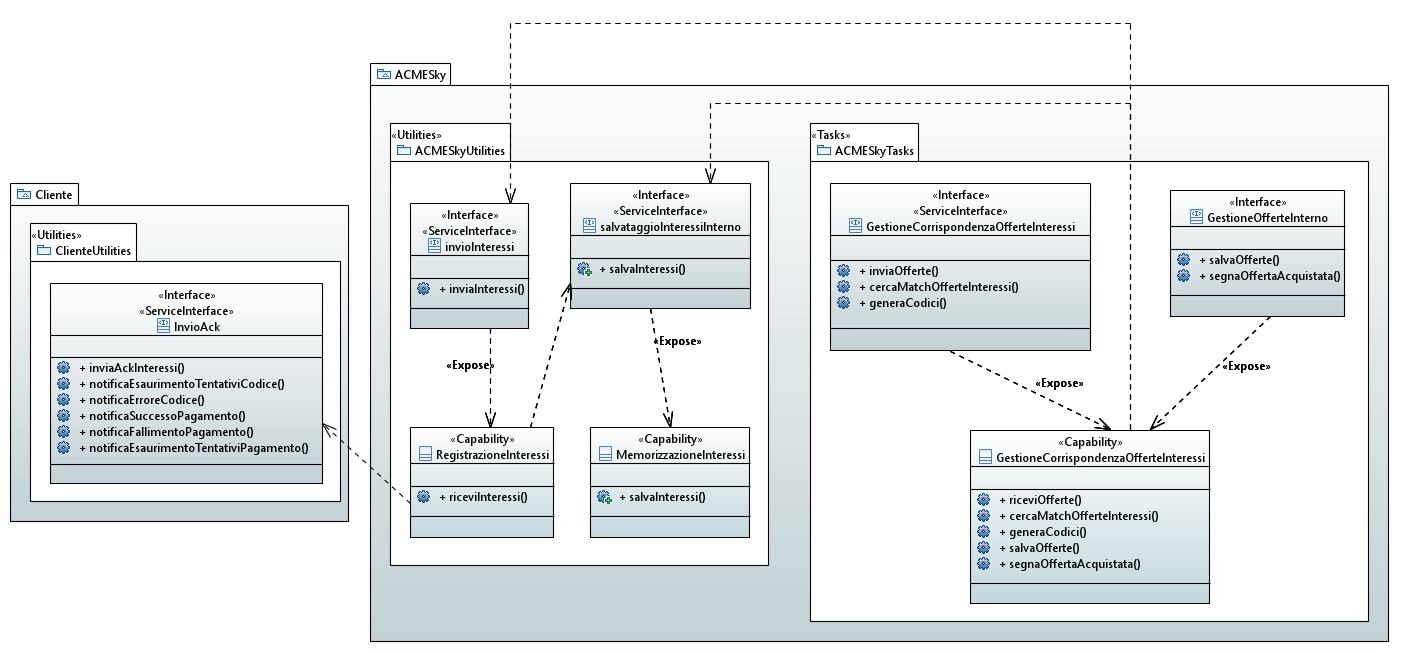
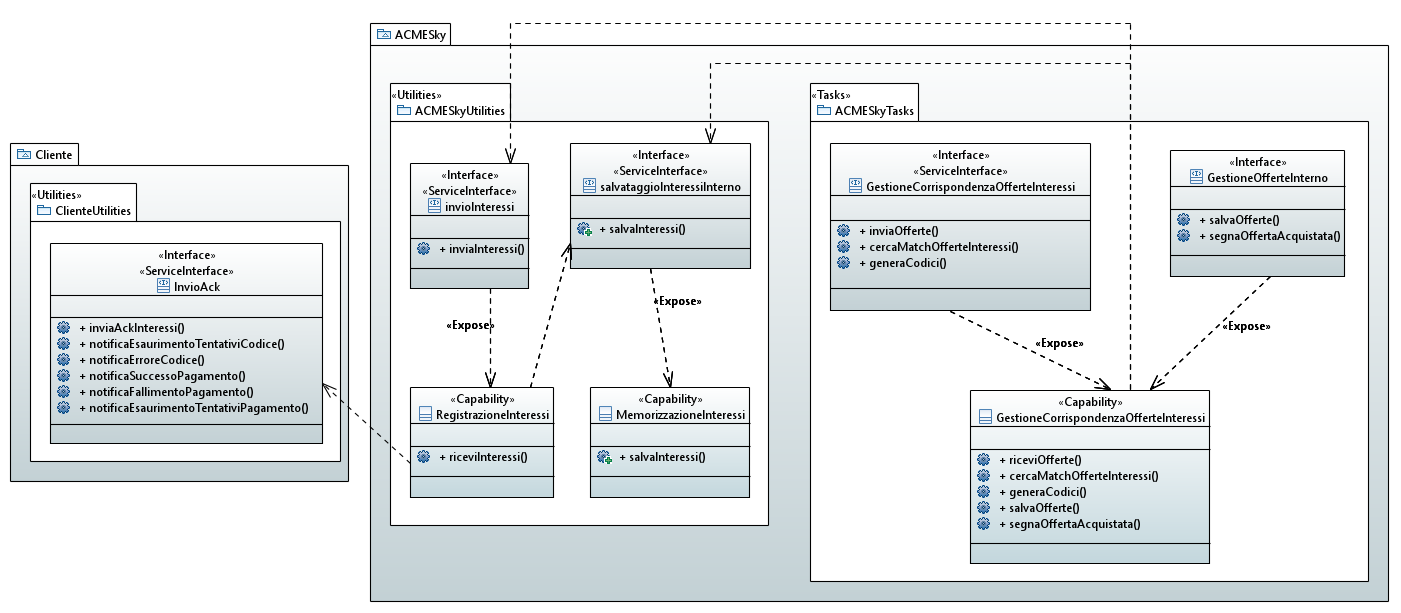
backup

diff --git a/back-up/4-UML.md b/back-up/4-UML.md
@@ -1,22 +1,33 @@
 # Modello UML della SOA progettata
 
-Abbiamo progettato una *Service Oriented Architecture* (SOA) che realizzi la piattaforma in considerazione, e l'abbiamo documentata utilizzando UML: in dettaglio, ci siamo serviti del profilo *TinySOA*, in quanto mette a disposizione gli artefatti e gli stereotipi appropriati per le nostre esigenze documentative.
+Per quanto riguarda questa sezione, abbiamo analizzato minuziosamente il diagramma BPMN presentato nella [sezione precedente](4-diagramma-BPMN.md), nel tentativo di individuare ogni interfaccia e le operazioni che ciascuna di esse rende accessibile: abbiamo indicato anche le capability cui queste interfacce permettono di fruire.
 
-Questo profilo presenta tre artefatti volti a contenere le interfacce e le capability che espongono:
+A fini documentativi, abbiamo utilizzato UML e, più precisamente, il profilo *TinySOA*, in quanto mette a disposizione gli artefatti e gli stereotipi appropriati per un'architettura orientata ai servizi.
+
+Gli artefatti in questione sono:
 - **Task**: un intero processo legato al dominio;
 - **Entity**: una singola attività che può far uso di utility;
 - **Utility**: un intero processo scollegato dal dominio
 
-Abbiamo analizzato minuziosamente il diagramma BPMN elaborato e, per ogni partecipante, abbiamo individuato le capability racchiuse nei servizi che vengono ad essere integrati e le interfacce che permettono di accedere ai servizi stessi. 
-
 Il modello UML cui siamo giunti è qui riportato:
-![Modello UML con profilo TinySOA](https://github.com/MickPerl/soseng-project-documentation/blob/master/assets/images/ModelloUML.png?raw=true "Modello UML con profilo TinySOA")
+![Modello UML con profilo TinySOA](https://github.com/MickPerl/soseng-project-documentation/blob/master/assets/images/UML_totale.png?raw=true
+ "Modello UML dell'architettura totale")
 
-Di seguito, passiamo in rassegna la semantica delle capability di ogni partecipante, indicando le interfacce che permettono di accedervi.
+Per una maggiore chiarezza, articoliamo anche la trattazione sul modello UML nelle medesime 4 parti individuate a partire dalla spiegazione della coreografia:
+- Registrazione degli interessi degli utenti;
+- Richiesta delle offerte e inoltro;
+- Ricezione delle offerte LM e inoltro;
+- Acquisto del biglietto.
 
 ## Registrazione interessi degli utenti
+![Modello UML con profilo TinySOA](https://github.com/MickPerl/soseng-project-documentation/blob/master/assets/images/UML_registra_interessi.png?raw=true
+ "Modello UML relativo alla registrazione degli interessi degli utenti")
+
 
 ## Richiesta e inoltro delle offerte
+![Modello UML con profilo TinySOA](https://github.com/MickPerl/soseng-project-documentation/blob/master/assets/images/UML_richiesta_inoltro.png?raw=true
+ "Modello UML relativo alla richiesta e all'inoltro delle offerte")
+
 
 ## Ricezione e inoltro delle offerte LM
 Uguale a prima
@@ -27,3 +38,9 @@ Un'offerta last minute si distingue da una ordinaria per i seguenti aspetti:
 
 
 ## Acquisto offerta
+
+![Modello UML con profilo TinySOA](https://raw.githubusercontent.com/MickPerl/soseng-project-documentation/master/assets/images/UML_acquista_offerta.png
+ "Modello UML relativo alla richiesta e all'inoltro delle offerte")
+
+
+ 

diff --git a/back-up/1-descrizione-dominio-problema.md b/back-up/1-descrizione-dominio-problema.md
@@ -4,5 +4,5 @@ ACMESky, essendo una SOA, integra sotto forma di servizi le seguenti capability 
 - **calcolo delle distanze geografiche** offerta da *Google Maps*, per ottenere la distanza tra il domicilio dell'utente e l'aeroporto da cui parte l'aereo di cui ha acquistato il biglietto, nonché la distanza tra il domicilio dell'utente e le sedi delle diverse compagnie di noleggio con cui ACMESky ha accordi;
 - **gestione dei pagamenti** offerta da un *Fornitore di servizi bancari*, per garantire all'utente che la sua transazione per l'acquisto del biglietto vada a buon fine e sia sicura;
 - **trasporto del cliente dal suo domicilio all'areoporto** offerta da una serie di *compagnie di noleggio con autista* (rinominate in *compagnie di trasporto*, per brevità), con cui ACMESky ha accordi commerciali;
-- **trasferimenti aerei di andata e ritorno** offerta da una serie di *compagnie aeree* convenzionate con ACMESky, che inviano al cliente il biglietto acquistato e realizzano il trasferimento aereo;
+- **trasferimenti aerei di andata e ritorno** offerta da una serie di *compagnie aeree* convenzionate con ACMESky, le quali comunicano ad ACMESky le offerte ordinarie on demand e le offerte last minute (offerte LM) non appena sono attivate e inviano al cliente il biglietto acquistato, per poi realizzare il trasferimento aereo;
 - **inoltro di messaggi** offerta da un'app di messagistica chiamata *Prontogram*, per inoltrare le offerte di biglietti aerei ai clienti interessati.
